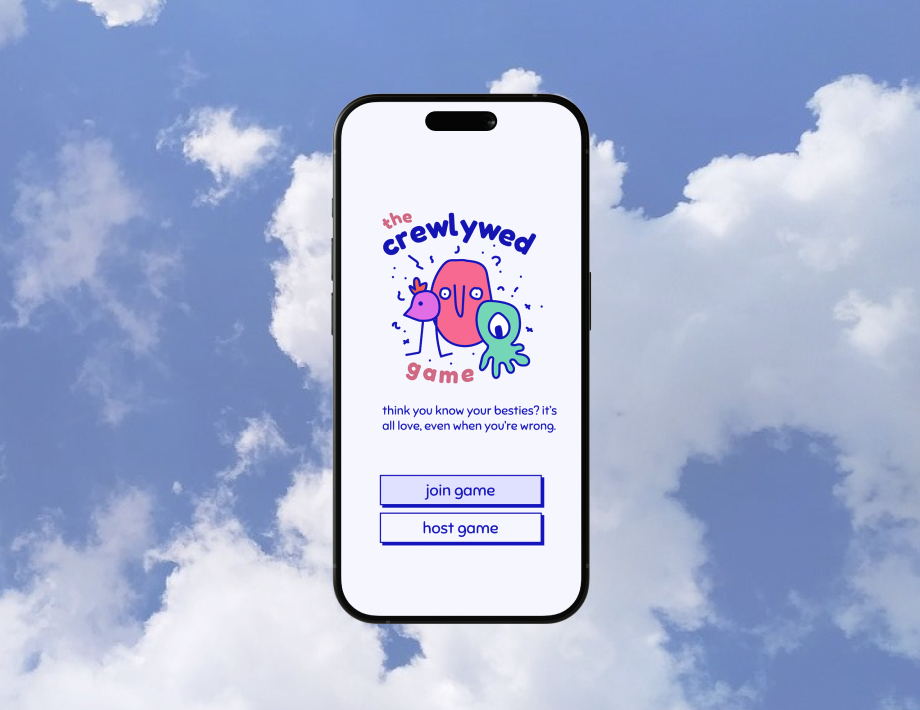
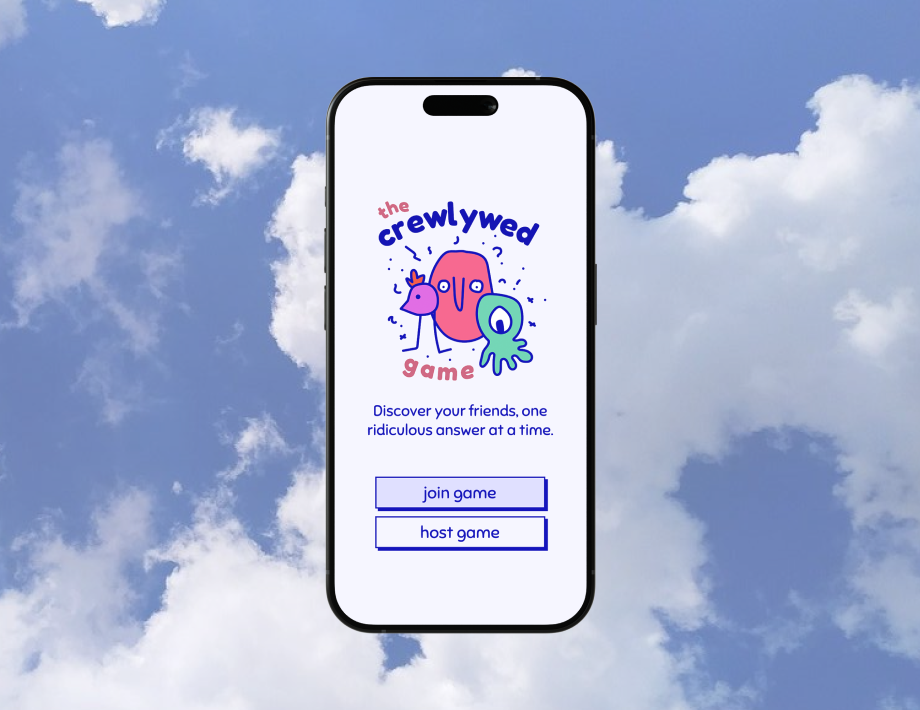
mobile refinements, new crewlywed hero

Changed region(s): [[0.3348, 0.093, 0.6696, 0.8986]]

diff --git a/src/icons/GigpitLogo.tsx b/src/icons/GigpitLogo.tsx
@@ -1,65 +1,47 @@
+import { useMediaQuery, useTheme } from "@mui/material";
+
 const GigpitLogo = () => {
+  const theme = useTheme();
+
+  const isSmallScreen = useMediaQuery(theme.breakpoints.down("md"));
+
   return (
     <svg
-      width="400"
+      width={isSmallScreen ? 300 : 500}
       height="100%"
-      viewBox="0 0 572 95"
+      viewBox="0 0 680 112"
       fill="none"
       xmlns="http://www.w3.org/2000/svg"
     >
-      <g clip-path="url(#clip0_1195_14606)">
+      <g clip-path="url(#clip0_5861_13650)">
         <path
-          d="M53.2956 24.8091C53.2956 18.6853 57.6848 13.6607 63.1713 13.6607C68.6578 13.6607 72.8903 18.6853 72.8903 24.8091V25.4372C72.8903 28.7346 75.5551 31.4039 78.8471 31.4039H112.55C115.685 31.4039 118.35 28.7346 118.35 25.4372V15.702C118.35 7.06588 108.788 0 97.0309 0H29.1549C17.3981 0 7.83594 7.06588 7.83594 15.702V40.9743H53.2956V24.8091Z"
-          fill="#F5F5F5"
+          d="M0 48.7109H9.31738V18.667C9.31738 8.40032 20.6855 0 34.6621 0H115.354C129.33 0 140.698 8.40032 140.698 18.667V30.2402C140.698 34.1601 137.53 37.333 133.803 37.333H93.7363C89.8231 37.3329 86.6554 34.1601 86.6553 30.2402V29.4932C86.6552 22.2132 81.623 16.2402 75.1006 16.2402C68.5784 16.2405 63.3604 22.2134 63.3604 29.4932V48.7109H54.043V82.5068C54.043 89.7867 59.4472 95.5732 65.7832 95.5732C72.1192 95.5732 77.3368 89.7868 77.3369 82.5068V62.9062H65.7832V48.9062H124.485C128.212 48.9064 131.38 52.0801 131.38 56V104.906C131.38 108.826 128.212 112 124.485 112H25.3447C11.3681 112 0 103.6 0 93.333V48.7109Z"
+          fill="white"
         />
         <path
-          d="M170.397 5.80973C170.397 2.66933 167.732 0 164.597 0H130.894C127.602 0 124.938 2.66933 124.938 5.80973V40.9743H170.397V5.80973Z"
-          fill="#F5F5F5"
+          d="M139.207 48.7109H148.525V6.90625C148.526 3.1731 151.693 0 155.606 0H195.673C199.4 7.71284e-05 202.567 3.17314 202.567 6.90625V48.7109H193.25V104.906C193.25 108.826 190.082 112 186.354 112H146.289C142.376 112 139.207 108.826 139.207 104.906V48.7109Z"
+          fill="white"
         />
         <path
-          d="M222.44 24.8091C222.44 18.6853 226.829 13.6607 232.316 13.6607C237.802 13.6607 242.035 18.6853 242.035 24.8091V25.4372C242.035 28.7346 244.7 31.4039 247.992 31.4039H281.694C284.83 31.4039 287.494 28.7346 287.494 25.4372V15.702C287.494 7.06588 277.932 0 266.175 0H198.299C186.543 0 176.98 7.06588 176.98 15.702V40.9743H222.44V24.8091Z"
-          fill="#F5F5F5"
+          d="M201.077 48.7109H210.395V18.667C210.395 8.40032 221.763 0 235.739 0H316.431C330.407 0 341.775 8.40032 341.775 18.667V30.2402C341.775 34.1601 338.607 37.333 334.88 37.333H294.813C290.9 37.333 287.733 34.1601 287.732 30.2402V29.4932C287.732 22.2132 282.7 16.2402 276.178 16.2402C269.656 16.2404 264.438 22.2134 264.438 29.4932V48.7109H255.12V82.5068C255.12 89.7868 260.524 95.5732 266.86 95.5732C273.196 95.5732 278.414 89.7868 278.414 82.5068V62.9062H266.86V48.9062H325.562C329.289 48.9064 332.457 52.0801 332.457 56V104.906C332.457 108.826 329.289 112 325.562 112H226.421C212.444 112 201.077 103.6 201.077 93.333V48.7109Z"
+          fill="white"
         />
         <path
-          d="M339.534 13.6607H350.82C355.523 13.6607 359.442 15.702 359.442 18.3713V40.9743H404.588V15.702C404.588 7.06588 395.026 0 383.269 0H300.031C296.739 0 294.074 2.66933 294.074 5.80973V40.9743H339.534V13.6607Z"
-          fill="#F5F5F5"
+          d="M427.312 48.7109V21.8398C427.311 18.6666 422.653 16.2403 417.062 16.2402H403.645V48.7109H394.327V55.8135H407.745C413.335 55.8134 417.994 53.3868 417.994 50.4004V48.7109H427.312ZM471.664 51.333C471.664 61.5996 460.297 69.9999 446.32 70H394.327V104.906C394.327 108.826 391.159 112 387.432 112H347.365C343.452 112 340.284 108.826 340.284 104.906V48.7109H349.602V6.90625C349.602 3.1731 352.77 0 356.684 0H455.638C469.614 0 480.982 8.40032 480.982 18.667V48.7109H471.664V51.333Z"
+          fill="white"
         />
         <path
-          d="M456.628 5.80973C456.628 2.66933 453.963 0 450.828 0H417.125C413.833 0 411.168 2.66933 411.168 5.80973V40.9743H456.628V5.80973Z"
-          fill="#F5F5F5"
+          d="M479.491 48.7109H488.8V6.90625C488.8 3.17323 491.968 0.000222411 495.881 0H535.947C539.674 0 542.843 3.1731 542.843 6.90625V48.7109H533.534V104.906C533.534 108.826 530.367 112 526.64 112H486.573C482.66 112 479.491 108.826 479.491 104.906V48.7109Z"
+          fill="white"
         />
         <path
-          d="M539.708 19.6275H566.2C569.335 19.6275 572 16.9581 572 13.6607V5.80973C572 2.66933 569.335 0 566.2 0H465.875C462.583 0 459.918 2.66933 459.918 5.80973V13.6607C459.918 16.9581 462.583 19.6275 465.875 19.6275H493.307V40.9743H539.708V19.6275Z"
-          fill="#F5F5F5"
-        />
-        <path
-          d="M21.319 94.2121H104.714C107.849 94.2121 110.514 91.5428 110.514 88.2454V47.1062C110.514 43.8088 107.849 41.1395 104.714 41.1395H55.3354V52.916H65.0543V69.403C65.0543 75.5268 60.6651 80.3944 55.3354 80.3944C50.0056 80.3944 45.4597 75.5268 45.4597 69.403V40.9746H0V78.5101C0 87.1462 9.5622 94.2121 21.319 94.2121Z"
-          fill="#F5F5F5"
-        />
-        <path
-          d="M123.051 94.2121H156.753C159.889 94.2121 162.553 91.5428 162.553 88.2454V40.9746H117.094V88.2454C117.094 91.5428 119.759 94.2121 123.051 94.2121Z"
-          fill="#F5F5F5"
-        />
-        <path
-          d="M190.46 94.2121H273.855C276.99 94.2121 279.655 91.5428 279.655 88.2454V47.1062C279.655 43.8088 276.99 41.1395 273.855 41.1395H224.476V52.916H234.195V69.403C234.195 75.5268 229.806 80.3944 224.476 80.3944C219.146 80.3944 214.6 75.5268 214.6 69.403V40.9746H169.141V78.5101C169.141 87.1462 178.703 94.2121 190.46 94.2121Z"
-          fill="#F5F5F5"
-        />
-        <path
-          d="M292.195 94.2121H325.898C329.033 94.2121 331.698 91.5428 331.698 88.2454V58.8827H375.433C387.19 58.8827 396.752 51.8168 396.752 43.1807V40.9746H351.606V42.3956C351.606 44.908 347.687 46.9492 342.984 46.9492H331.698V40.9746H286.238V88.2454C286.238 91.5428 288.903 94.2121 292.195 94.2121Z"
-          fill="#F5F5F5"
-        />
-        <path
-          d="M409.297 94.2121H443C446.135 94.2121 448.8 91.5428 448.8 88.2454V40.9746H403.34V88.2454C403.34 91.5428 406.005 94.2121 409.297 94.2121Z"
-          fill="#F5F5F5"
-        />
-        <path
-          d="M491.269 94.2121H525.912C529.204 94.2121 531.869 91.5428 531.869 88.2454V40.9746H485.469V88.2454C485.469 91.5428 487.977 94.2121 491.269 94.2121Z"
-          fill="#F5F5F5"
+          d="M577.132 48.7109H586.45V23.333H553.838C549.925 23.333 546.756 20.1601 546.756 16.2402V6.90625C546.756 3.1731 549.925 0 553.838 0H673.104C676.831 0 680 3.1731 680 6.90625V16.2402C680 20.1601 676.832 23.333 673.104 23.333H641.611V48.7109H632.293V104.906C632.293 108.826 629.125 112 625.212 112H584.027C580.114 112 577.132 108.826 577.132 104.906V48.7109Z"
+          fill="white"
         />
       </g>
       <defs>
-        <clipPath id="clip0_1195_14606">
-          <rect width="572" height="94.0545" fill="white" />
+        <clipPath id="clip0_5861_13650">
+          <rect width="680" height="112" fill="white" />
         </clipPath>
       </defs>
     </svg>

diff --git a/src/pages/Project/Fit52Project/index.tsx b/src/pages/Project/Fit52Project/index.tsx
@@ -34,7 +34,7 @@ const Fit52Project = () => {
       </HeroSectionWrapper>
       <ProjectOverview
         project="Fit52"
-        title="Holistic fitness platform inspired by Carrie Underwood’s wellness philosophy"
+        title="A holistic fitness platform inspired by Carrie Underwood’s wellness philosophy"
         paragraphs={[
           "Built around a 52-card metaphor, fit52 generates dynamic, personalized workouts that adapt to each user’s fitness level and goals. The app also integrates nutrition guidance and community-driven features to support long-term health and motivation.",
         ]}
@@ -92,12 +92,12 @@ const Fit52Project = () => {
       <MockWrapper gap={{ xs: 6, md: 10 }} alignItems="center">
         <PhoneMock
           src={"/images/fit52/feed-before.png"}
-          label="Social feed before redesign"
+          label="Social feed BEFORE redesign"
         />
         <LittleArrow rotate={!isSmallScreen && "rotate(-90deg)"} />
         <PhoneMock
           src={"/images/fit52/feed-after.png"}
-          label="Social feed after redesign"
+          label="Social feed AFTER redesign"
         />
       </MockWrapper>
       <Spacer level={20} />
@@ -120,12 +120,12 @@ const Fit52Project = () => {
       <MockWrapper gap={{ xs: 6, md: 10 }} alignItems="center">
         <PhoneMock
           src={"/images/fit52/comments-before.png"}
-          label="Comments section before redesign"
+          label="Comments section BEFORE redesign"
         />
         <LittleArrow rotate={!isSmallScreen && "rotate(-90deg)"} />
         <PhoneMock
           src={"/images/fit52/comments-after.png"}
-          label="Comments section after redesign"
+          label="Comments section AFTER redesign"
         />
       </MockWrapper>
       <SectionDivider />

diff --git a/src/pages/Project/CrewlywedProject/index.tsx b/src/pages/Project/CrewlywedProject/index.tsx
@@ -33,6 +33,7 @@ const CrewlywedProject = () => {
     <ProjectPageContainer>
       <HeroSectionWrapper>
         <CrewlywedLogo />
+
         <ProjectImage src={selectedProject?.imageSource} />
       </HeroSectionWrapper>
       <ProjectOverview
@@ -47,7 +48,7 @@ const CrewlywedProject = () => {
         date="2020"
       />
       <SectionDivider />
-      <Stack direction={{ xs: "column", md: "row" }}>
+      <Stack direction={{ xs: "column", md: "row" }} gap={{ xs: 5 }}>
         <Box>
           <SectionTitle>My Role</SectionTitle>
           <BodyTextWrapper>
@@ -76,9 +77,9 @@ const CrewlywedProject = () => {
           <StyledP>
             The UI was designed to keep this flow light, funny, and
             social—blending clear structure with playful visuals to support both
-            competition and connection. Every screen was built to feel intuitive
-            at a glance, so players could focus on laughing, bluffing, and
-            reacting—not figuring out how to play.
+            engaging gameplay and connection. Every screen was built to feel
+            intuitive at a glance, so players could focus on laughing, bluffing,
+            and reacting—not figuring out how to play.
           </StyledP>
           <StyledP>
             Characters are quirky but expressive, prompts are casual and weird

diff --git a/src/pages/Project/components/index.tsx b/src/pages/Project/components/index.tsx
@@ -32,7 +32,7 @@ export const PhoneMockImage = styled.img`
   height: 100%;
 `;
 
-export const SectionTitle = styled.h4`
+export const SectionTitle = styled.h3`
   max-width: 700px;
   margin-bottom: 40px;
 `;
@@ -88,7 +88,7 @@ const StyledHeroSectionWrapper = styled(Stack)`
 export const HeroSectionWrapper = (props: any) => {
   const { children } = props;
   return (
-    <StyledHeroSectionWrapper gap={5} alignItems={"flex-start"}>
+    <StyledHeroSectionWrapper gap={3} alignItems={"flex-start"}>
       {children}
     </StyledHeroSectionWrapper>
   );

diff --git a/src/pages/Project/components/ProjectOverview/index.tsx b/src/pages/Project/components/ProjectOverview/index.tsx
@@ -49,7 +49,7 @@ const ProjectOverview = (props: IProjectOverviewProps) => {
         <Spacer />
         <PageTitle>{title}</PageTitle>
 
-        <Stack direction={{ sm: "column", lg: "row" }} gap={{ sm: 5, md: 10 }}>
+        <Stack direction={{ sm: "column", lg: "row" }} gap={{ xs: 5, md: 10 }}>
           <StyledP>{paragraphs[0]}</StyledP>
           <StyledP>{paragraphs[1]}</StyledP>
         </Stack>

diff --git a/src/icons/CrewlywedLogo.tsx b/src/icons/CrewlywedLogo.tsx
@@ -1,7 +1,12 @@
+import { useMediaQuery, useTheme } from "@mui/material";
+
 const CrewlywedLogo = () => {
+  const theme = useTheme();
+
+  const isSmallScreen = useMediaQuery(theme.breakpoints.down("md"));
   return (
     <svg
-      width="500"
+      width={isSmallScreen ? 300 : 500}
       height="100%"
       viewBox="0 0 699 141"
       fill="none"
